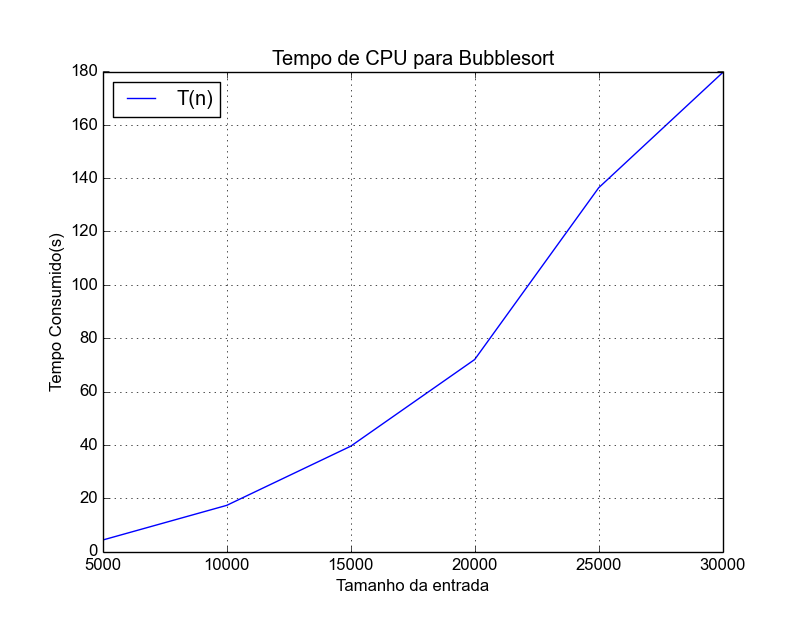
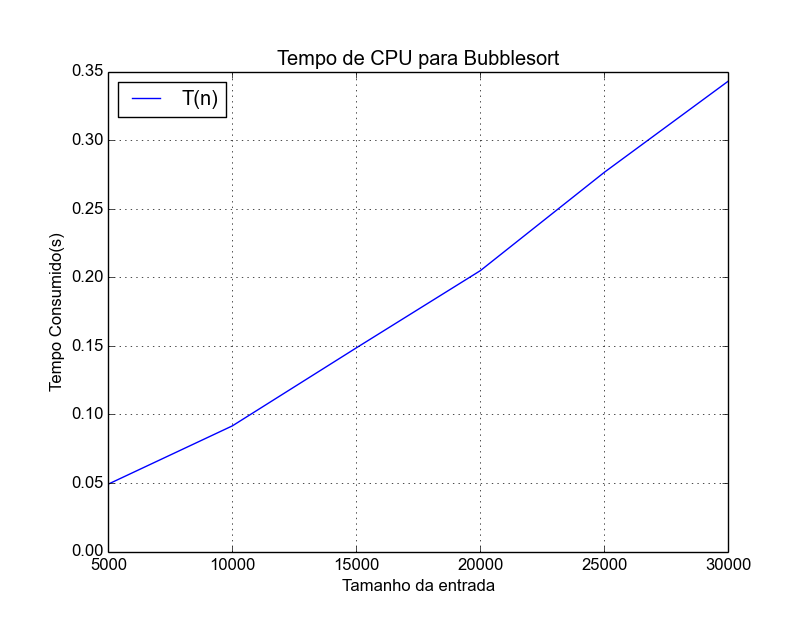
Atualização de todos algoritmos, todos retornam o tempo de execução. modificadas funções de swap. Inicializada a automação dos testes das funções.

diff --git a/src/mergesort.py b/src/mergesort.py
@@ -1,57 +1,16 @@
-#=======================================================================
-#  Author: Isai Damier
-#  Title: Mergesort
-#  Project: geekviewpoint
-#  Package: algorithm.sorting
-#
-#  Statement:
-#  Given a disordered list of integers (or any other items),
-#  rearrange the integers in natural order.
-#
-#  Sample Input: [8,5,3,1,9,6,0,7,4,2,5]
-#
-#  Sample Output: [0,1,2,3,4,5,5,6,7,8,9]
-#
-#  Time Complexity of Solution:
-#  Best = Average = Worst = O(nlog(n)).
-#
-#  Approach:
-#   Merge sort is a divide and conquer algorithm. In the divide and
-#   conquer paradigm, a problem is broken into pieces where each piece
-#   still retains all the properties of the larger problem -- except
-#   its size. To solve the original problem, each piece is solved
-#   individually; then the pieces are merged back together.
-#
-#   For illustration, imagine needing to sort an array of 200 elements
-#   using selection sort. Since selection sort takes O(n^2), it would
-#   take about 40,000 time units to sort the array. Now imagine
-#   splitting the array into ten equal pieces and sorting each piece
-#   individually still using selection sort. Now it would take 400
-#   time units to sort each piece; for a grand total of 10400 = 4000.
-#   Once each piece is sorted, merging them back together would take
-#   about 200 time units; for a grand total of 200+4000 = 4,200.
-#   Clearly 4,200 is an impressive improvement over 40,000. Now
-#   imagine greater. Imagine splitting the original array into
-#   groups of two and then sorting them. In the end, it would take about
-#   1,000 time units to sort the array. That's how merge sort works.
-#
-#  NOTE to the Python experts:
-#     While it might seem more "Pythonic" to take such approach as
-#
-#         mid = len(aList) / 2
-#         left = mergesort(aList[:mid])
-#         right = mergesort(aList[mid:])
-#
-#     That approach take too much memory for creating sublists.
-#=======================================================================
+import time
 
 
 def mergesort(aList):
+    start = time.clock()
     _mergesort(aList, 0, len(aList) - 1)
+    end = time.clock()
+    cputime = end - start
+    return cputime
 
 
 def _mergesort(aList, first, last):
-        # break problem into smaller structurally identical pieces
+    # break problem into smaller structurally identical pieces
     mid = (first + last) / 2
     if first < last:
         _mergesort(aList, first, mid)

diff --git a/src/heapsort.py b/src/heapsort.py
@@ -1,61 +1,25 @@
-#=======================================================================
-#  Author: Isai Damier
-#  Title: Heapsort
-#  Project: geekviewpoint
-#  Package: algorithms
-#
-#  Statement:
-#  Given a disordered list of integers (or any other items),
-#  rearrange the integers in natural order.
-#
-#  Sample Input: [8,5,3,1,9,6,0,7,4,2,5]
-#  Sample Output: [0,1,2,3,4,5,5,6,7,8,9]
-#
-#  Time Complexity of Solution:
-#  Best O(nlog(n)); Average O(nlog(n)); Worst O(nlog(n)).
-#
-#  Approach:
-#  Heap sort happens in two phases. In the first phase, the array
-#  is transformed into a heap. A heap is a binary tree where
-#  1) each node is greater than each of its children
-#  2) the tree is perfectly balanced
-#  3) all leaves are in the leftmost position available.
-#  In phase two the heap is continuously reduced to a sorted array:
-#  1) while the heap is not empty
-#  - remove the top of the head into an array
-#  - fix the heap.
-#  Heap sort was invented by John Williams not by B. R. Heap.
-#
-#  MoveDown:
-#  The movedown method checks and verifies that the tsructure is a heap.
-#
-#  Technical Details:
-#  A heap is based on an array just as a hashmap is based on an
-#  array. For a heap, the children of an element n are at index
-#  2n+1 for the left child and 2n+2 for the right child.
-#
-#  The movedown function checks that an element is greater than its
-#  children. If not the values of element and child are swapped. The
-#  function continues to check and swap until the element is at a
-#  position where it is greater than its children.
-#=======================================================================
+import time
 
 
 def heapsort(alist):
+    start = time.clock()
     # convert alist to heap
     length = len(alist) - 1
     leastParent = length / 2
     for i in range(leastParent, -1, -1):
-        moveDown(alist, i, length)
+        movedown(alist, i, length)
 
     # flatten heap into sorted array
     for i in range(length, 0, -1):
         if alist[0] > alist[i]:
             swap(alist, 0, i)
-            moveDown(alist, 0, i - 1)
+            movedown(alist, 0, i - 1)
+    end = time.clock()
+    cputime = end - start
+    return cputime
 
 
-def moveDown(alist, first, last):
+def movedown(alist, first, last):
     largest = 2 * first + 1
     while largest <= last:
             # right child exists and is larger than left child

diff --git a/src/quicksort.py b/src/quicksort.py
@@ -1,49 +1,13 @@
-#=======================================================================
-#  Author: Isai Damier
-#  Title: QuickSort
-#  Project: geekviewpoint
-#  Package: algorithm.sorting
-#
-#  Statement: Given a disordered list of integers (or any other items),
-#  rearrange the integers in natural order.
-#
-#  Sample Input: [8,5,3,1,9,6,0,7,4,2]
-#
-#  Sample Output: [0,1,2,3,4,5,6,7,8,9]
-#
-#  Time Complexity of Solution:
-#  Best = Average = O(nlog(n)); Worst = O(n^2).
-#
-#  Approach:
-#  Quicksort is admirably known as the algorithm that sorts an array
-#  while preparing to sort it. For contrast, recall that merge sort
-#  first partitions an array into smaller pieces, then sorts each piece,
-#  then merge the pieces back. Quicksort actually sorts the array
-#  during the partition phase.
-#
-#  Quicksort works by selecting an element called a pivot and splitting
-#  the array around that pivot such that all the elements in, say, the
-#  left sub-array are less than pivot and all the elements in the right
-#  sub-array are greater than pivot. The splitting continues until the
-#  array can no longer be broken into pieces. That's it. Quicksort is
-#    done.
-#
-#  All this fussing about quicksort sorting while preparing to sort
-#  may give the impression that it is better than mergesort, but its
-#  not. In practice their time complexity is about the same -- with
-#  one funny exception. Because quicksort picks its pivot randomly,
-#  there is a practically impossible possibility that the algorithm
-#    may take O(n^2) to compute.
-#
-#  The aforementioned notwithstanding, quicksort is better than
-#    mergesort if you consider memory usage. Quicksort is an in-place
-#    algorithm, requiring no additional storage to work.
-#=======================================================================
 import random
+import time
 
 
 def quicksort(aList):
+    start = time.clock()
     _quicksort(aList, 0, len(aList) - 1)
+    end = time.clock()
+    cputime = end - start
+    return cputime
 
 
 def _quicksort(aList, first, last):

diff --git a/src/selectionsort.py b/src/selectionsort.py
@@ -1,37 +1,17 @@
-#=======================================================================
-#  Author: Isai Damier
-#  Title: Selection Sort
-#  Project: geekviewpoint
-#  Package: algorithm.sorting
-#
-#  Statement:
-#  Given a disordered list of integers (or any other items),
-#  rearrange the integers in natural order.
-#
-#  Sample Input: [18,5,3,1,19,6,0,7,4,2,5]
-#  Sample Output: [0,1,2,3,4,5,5,6,7,18,19]
-#
-#  Time Complexity of Solution:
-#  Best O(n^2); Average O(n^2); Worst O(n^2).
-#
-#  Approach:
-#  Selection sort is a step up from insertion sort from a memory
-#  viewpoint. It only swaps elements that need to be swapped. In terms
-#  of time complexity, however, insertion sort is better.
-#=======================================================================
-
+import time
 
 def selectionsort(aList):
-    for i in range(len(aList)):
-        least = i
-        for k in range(i + 1, len(aList)):
-            if aList[k] < aList[least]:
-                least = k
-
-        swap(aList, least, i)
+	start = time.clock()
+	for i in range(len(aList)):
+		least = i
+		for k in range(i + 1, len(aList)):
+			if aList[k] < aList[least]:
+				least = k
+			swap(aList, least, i)
+	end = time.clock()
+	cputime = end - start
+	return cputime
 
 
 def swap(A, x, y):
-    tmp = A[x]
-    A[x] = A[y]
-    A[y] = tmp
+    A[x], A[y] = A[y], A[x]

diff --git a/src/insertionsort.py b/src/insertionsort.py
@@ -1,28 +1,8 @@
-#=======================================================================
-#  Author: Isai Damier
-#  Title: Insertionsort
-#  Project: geekviewpoint
-#  Package: algorithms
-#
-#  Statement:
-#  Given a disordered list of integers (or any other items),
-#  rearrange the integers in natural order.
-#
-#  Sample Input: [8,5,3,1,9,6,0,7,4,2,5]
-#  Sample Output: [0,1,2,3,4,5,5,6,7,8,9]
-#
-#  Time Complexity of Solution:
-#  Best O(n); Average O(n^2); Worst O(n^2).
-#
-#  Approach:
-#  Insertion sort is good for collections that are very small
-#  or nearly sorted. Otherwise it's not a good sorting algorithm:
-#  it moves data around too much. Each time an insertion is made,
-#  all elements in a greater position are shifted.
-#=======================================================================
+import time
 
 
 def insertionsort(alist):
+    start = time.clock()
     for i in range(1, len(alist)):
         tmp = alist[i]
         k = i
@@ -30,3 +10,6 @@ def insertionsort(alist):
             alist[k] = alist[k - 1]
             k -= 1
         alist[k] = tmp
+    end = time.clock()
+    cputime = end - start
+    return cputime

diff --git a/src/main.py b/src/main.py
@@ -31,8 +31,7 @@ dimvet = [0.] * num_it  # inicializa o vetor vazio de dimensao num_it
 for i in range(num_it):
     list = fill_array(n * (i + 1))
     dimvet[i] = len(list)
-    cputime[i] = bubblesort(list)  # Armazena o cputime para aquela execucao
+    cputime[i] = mergesort(list)  # Armazena o cputime para aquela execucao
 
-print dimvet, cputime
-
-plot_graph(dimvet, cputime, 'Bubblesort')
+# print dimvet, cputime
+plot_graph(dimvet, cputime, 'Mergesort')

diff --git a/src/general.py b/src/general.py
@@ -28,15 +28,6 @@ def write_file(path, data):
     f.close()
 
 
-'''
-def calc_time():
-    command = 'echo test'# + options
-    process = os.popen(command)
-    results = str(process.read())
-    return results
-'''
-
-
 def plot_graph(dim, time, sortname):
     plt.figure()
     plt.plot(dim, time, 'b-')

diff --git a/src/shellsort.py b/src/shellsort.py
@@ -15,5 +15,4 @@ def shellsort(alist):
         inc = inc / 2 if inc / 2 else (0 if inc == 1 else 1)
     end = time.clock()
     cputime = end - start
-    # print cputime, 's'
     return cputime
